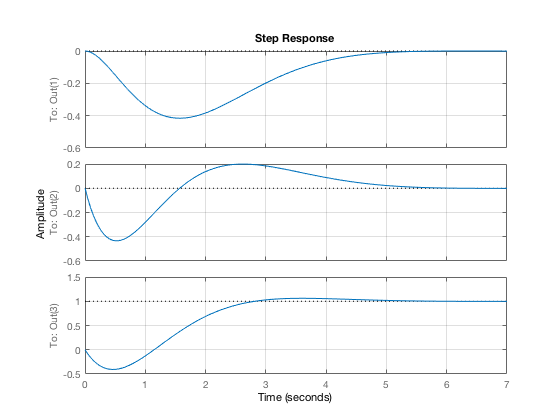
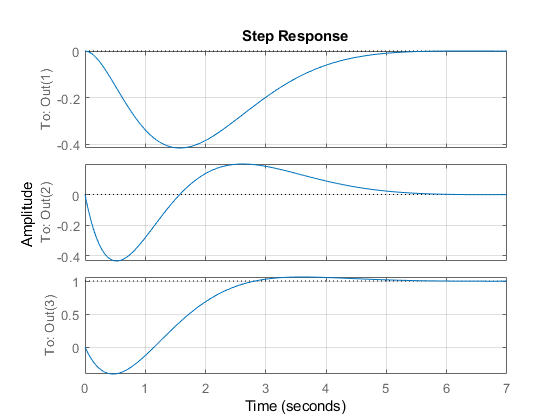
Changes

diff --git a/HW5/html/Problem_1.html b/HW5/html/Problem_1.html
@@ -6,7 +6,7 @@
    <!--
 This HTML was auto-generated from MATLAB code.
 To make changes, update the MATLAB code and republish this document.
-      --><title>Linear Control Systems Homework 5</title><meta name="generator" content="MATLAB 9.3"><link rel="schema.DC" href="http://purl.org/dc/elements/1.1/"><meta name="DC.date" content="2018-10-30"><meta name="DC.source" content="Problem_1.m"><style type="text/css">
+      --><title>Linear Control Systems Homework 5</title><meta name="generator" content="MATLAB 9.5"><link rel="schema.DC" href="http://purl.org/dc/elements/1.1/"><meta name="DC.date" content="2018-10-30"><meta name="DC.source" content="Problem_1.m"><style type="text/css">
 html,body,div,span,applet,object,iframe,h1,h2,h3,h4,h5,h6,p,blockquote,pre,a,abbr,acronym,address,big,cite,code,del,dfn,em,font,img,ins,kbd,q,s,samp,small,strike,strong,sub,sup,tt,var,b,u,i,center,dl,dt,dd,ol,ul,li,fieldset,form,label,legend,table,caption,tbody,tfoot,thead,tr,th,td{margin:0;padding:0;border:0;outline:0;font-size:100%;vertical-align:baseline;background:transparent}body{line-height:1}ol,ul{list-style:none}blockquote,q{quotes:none}blockquote:before,blockquote:after,q:before,q:after{content:'';content:none}:focus{outine:0}ins{text-decoration:none}del{text-decoration:line-through}table{border-collapse:collapse;border-spacing:0}
 
 html { min-height:100%; margin-bottom:1px; }
@@ -89,12 +89,22 @@ D_mtx =
      0     0     1
 
 </pre><h2 id="4">Part b</h2><pre class="codeinput">poles = [-1; -1+1j; -1-1j];
-K = acker(A, B, poles);
-r = -inv(C(3, :)*inv(A-B*K)*B)*vd;
+K = acker(A, B, poles)
+r = -inv(C(3, :)*inv(A-B*K)*B)*vd
+</pre><pre class="codeoutput">
+K =
+
+     5     5    -2
+
+
+r =
+
+    -2
+
 </pre><h2 id="5">Part c</h2><pre class="codeinput">sys = ss(A-B*K, B*r, C, D);
 step(sys)
 grid <span class="string">on</span>
-</pre><img vspace="5" hspace="5" src="Problem_1_01.png" alt=""> <p class="footer"><br><a href="http://www.mathworks.com/products/matlab/">Published with MATLAB&reg; R2017b</a><br></p></div><!--
+</pre><img vspace="5" hspace="5" src="Problem_1_01.png" alt=""> <p class="footer"><br><a href="https://www.mathworks.com/products/matlab/">Published with MATLAB&reg; R2018b</a><br></p></div><!--
 ##### SOURCE BEGIN #####
 %% Linear Control Systems Homework 5
 % * Problem 1
@@ -116,8 +126,8 @@ vd = 1;
 
 %% Part b
 poles = [-1; -1+1j; -1-1j]; 
-K = acker(A, B, poles);
-r = -inv(C(3, :)*inv(A-B*K)*B)*vd; 
+K = acker(A, B, poles)
+r = -inv(C(3, :)*inv(A-B*K)*B)*vd
 
 %% Part c
 sys = ss(A-B*K, B*r, C, D); 

diff --git a/HW5/Problem_1.m b/HW5/Problem_1.m
@@ -18,8 +18,8 @@ vd = 1;
 
 %% Part b
 poles = [-1; -1+1j; -1-1j]; 
-K = acker(A, B, poles);
-r = -inv(C(3, :)*inv(A-B*K)*B)*vd; 
+K = acker(A, B, poles)
+r = -inv(C(3, :)*inv(A-B*K)*B)*vd
 
 %% Part c
 sys = ss(A-B*K, B*r, C, D); 
